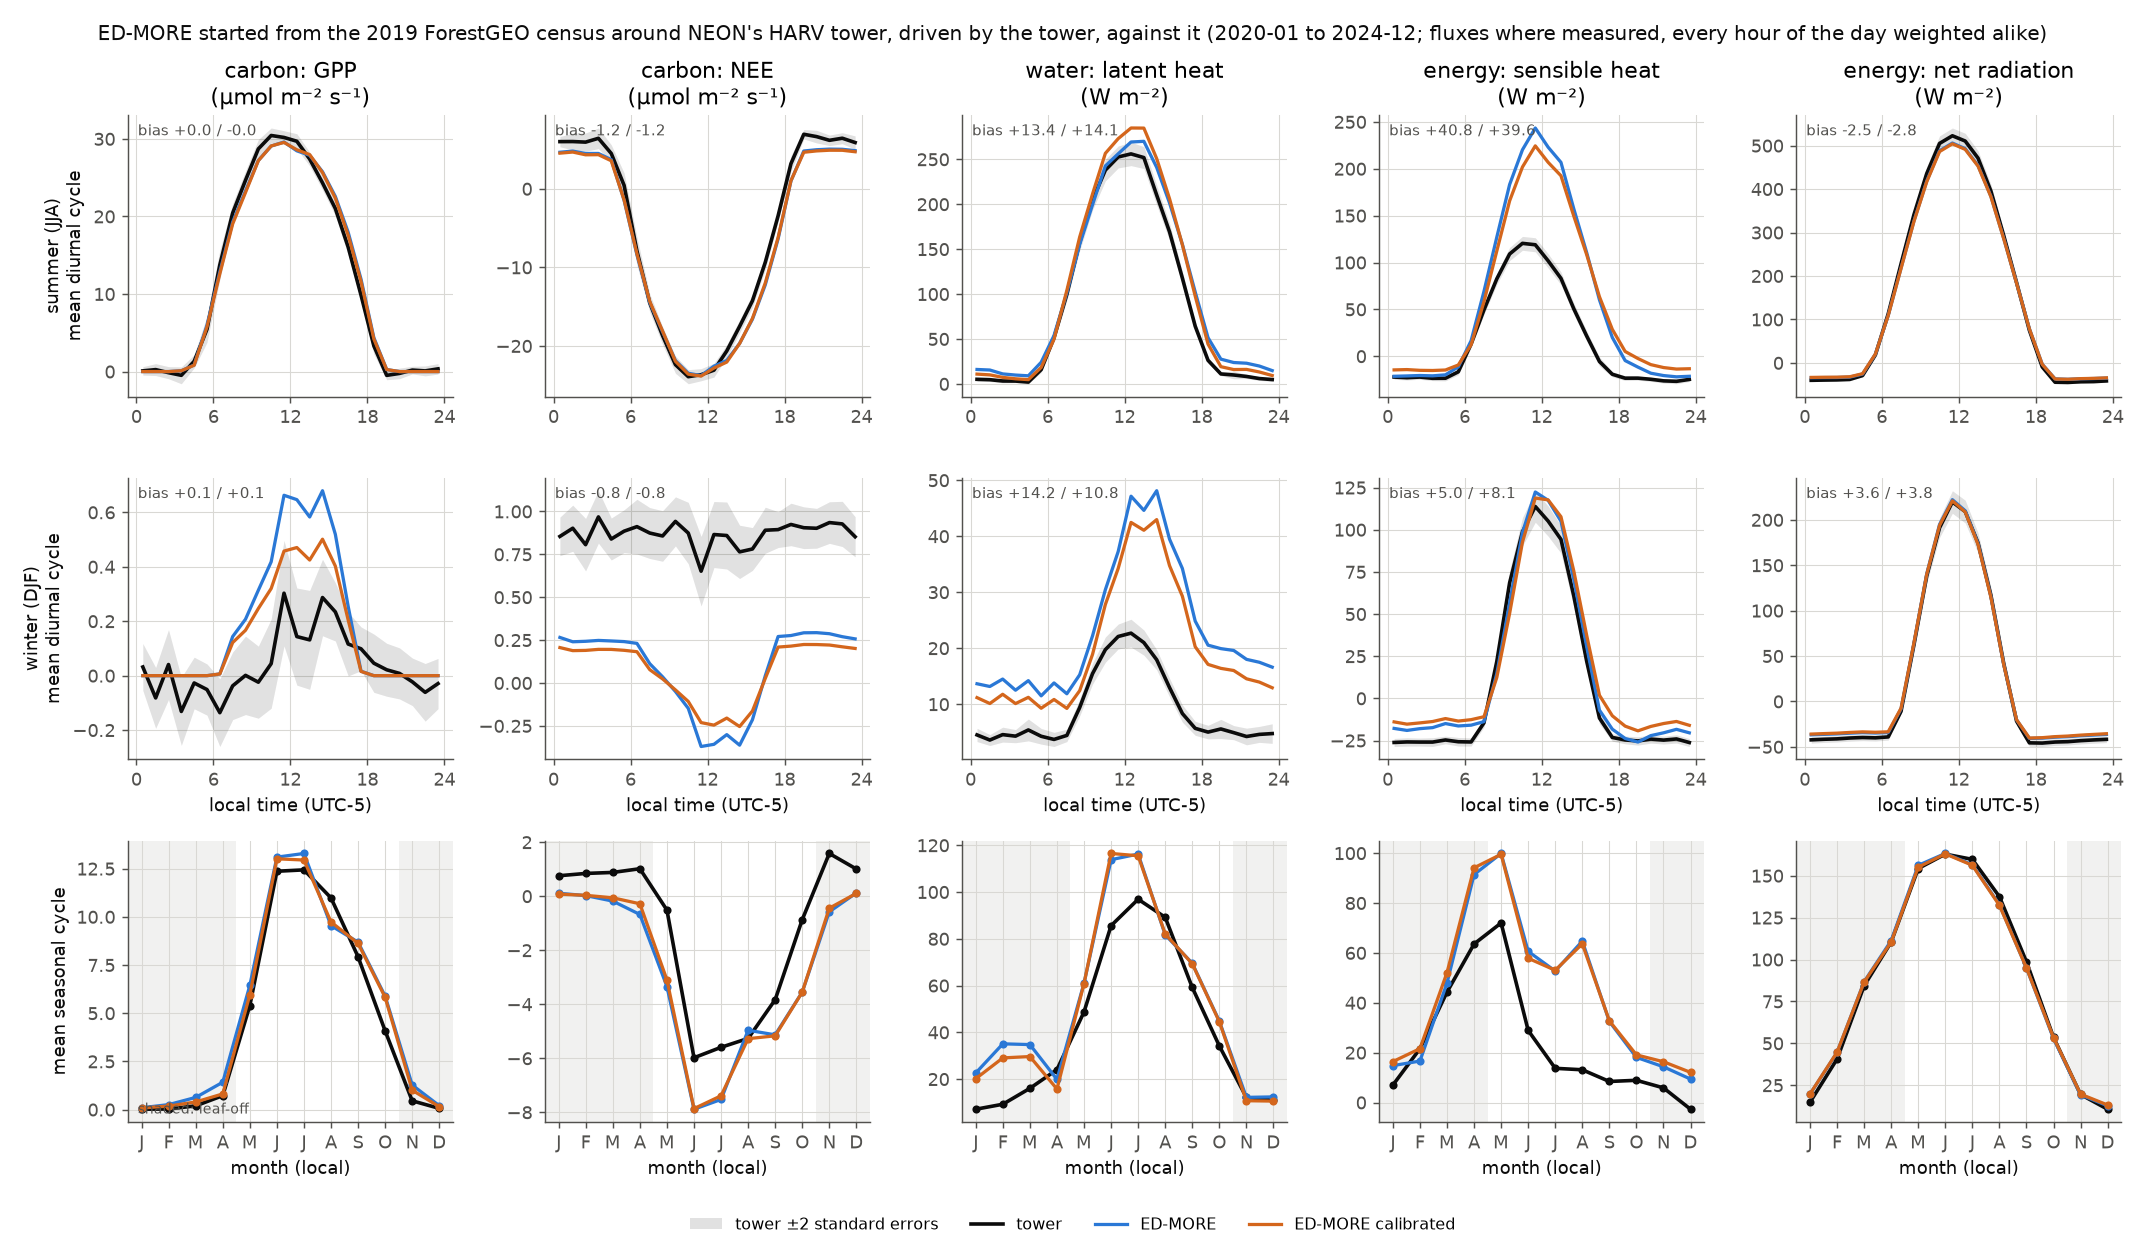
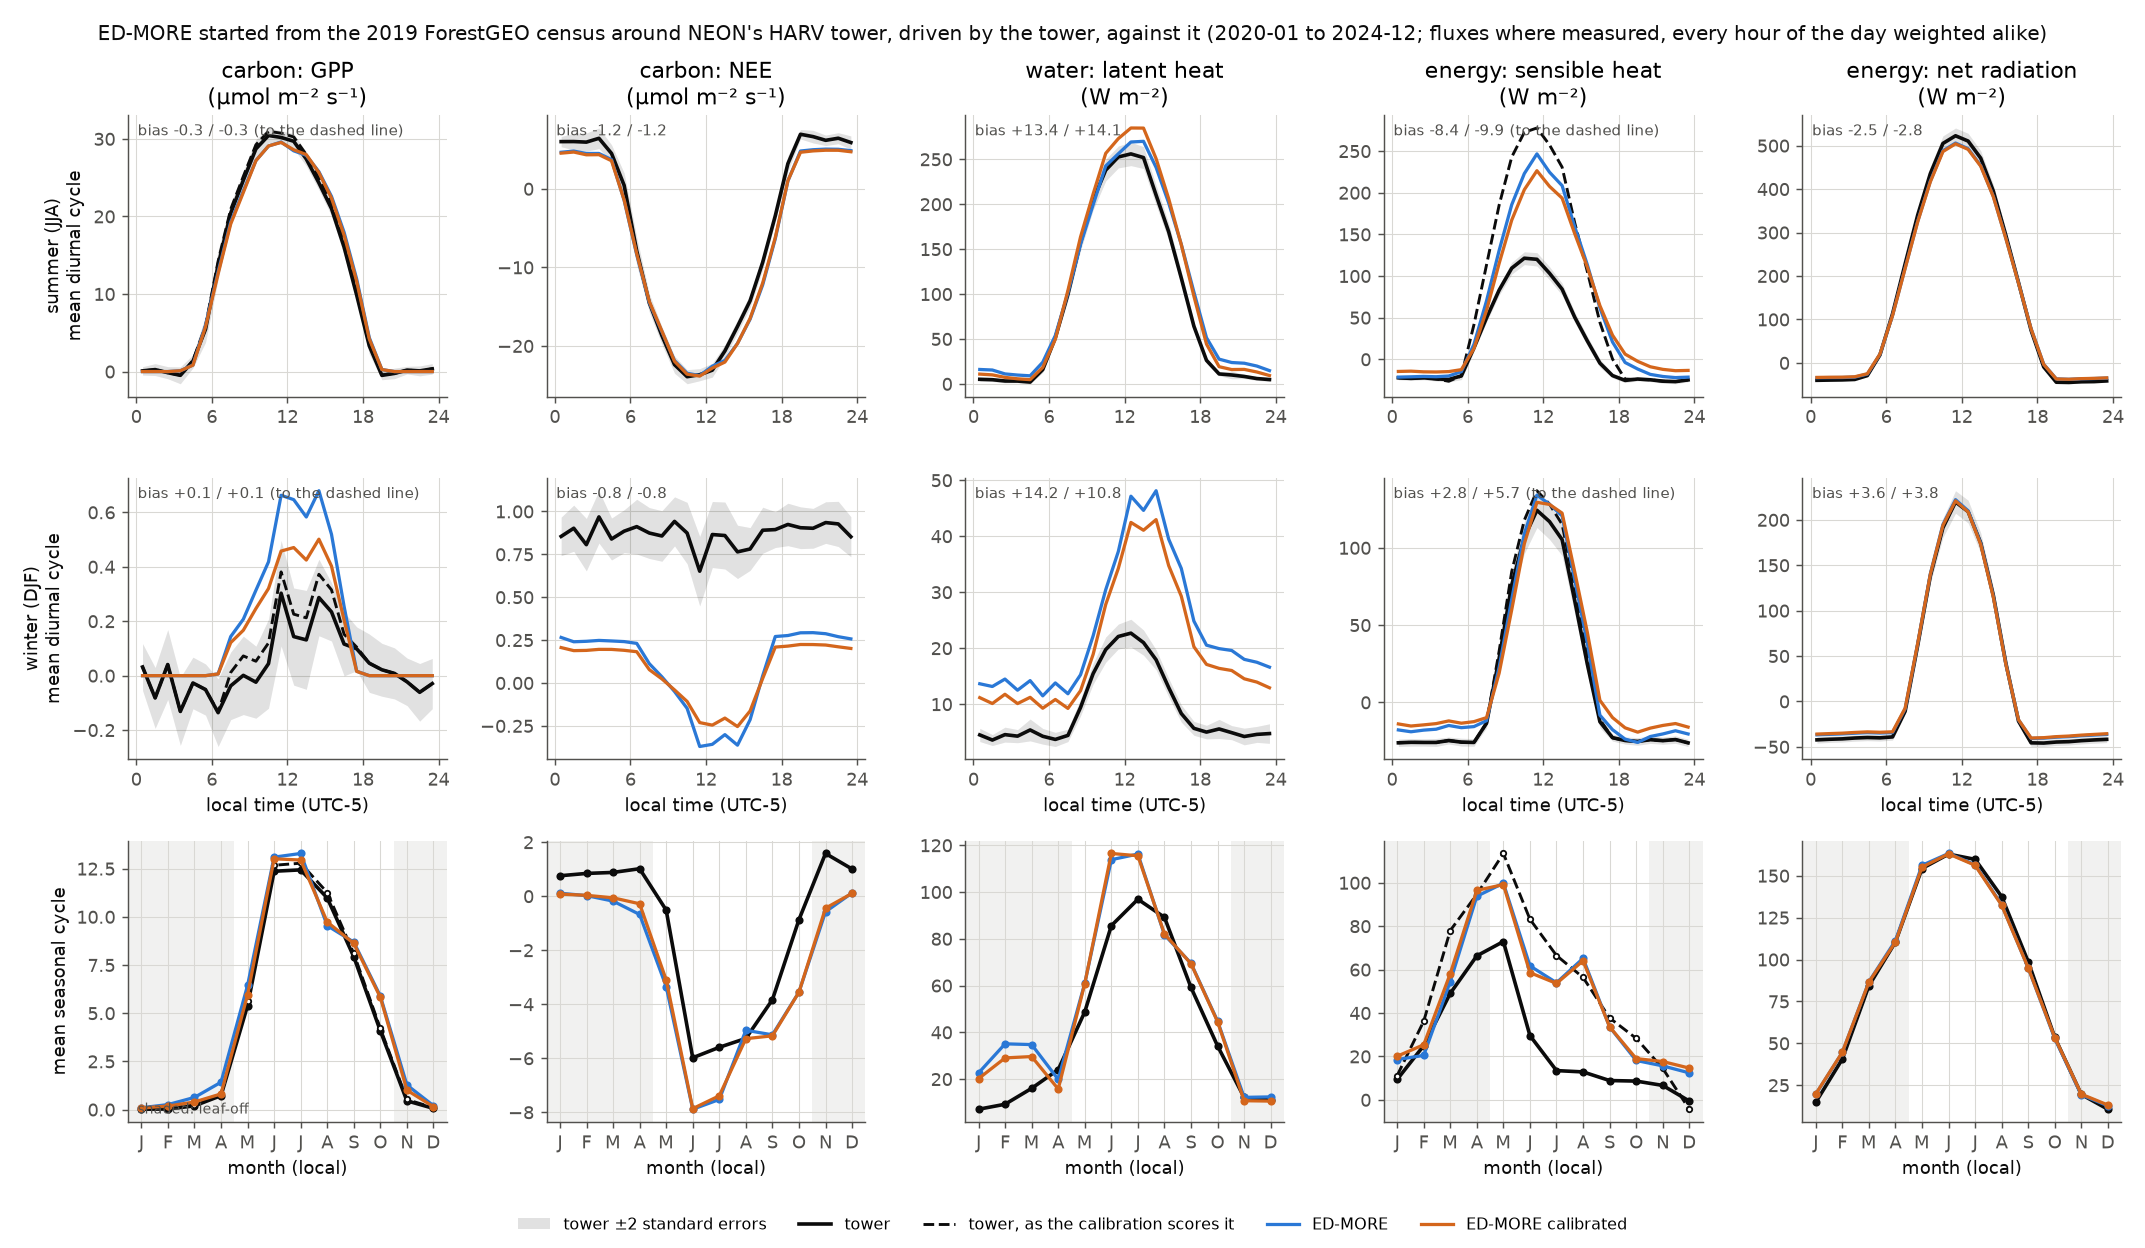
example04/harvard: the leaf area as its mean seasonal cycle; the tower as the calibration scores it
- plot_lai.py draws the mean seasonal cycle only (the statistics keep each year's dates).
- plot_evaluation.py draws, as BCI's does, the tower as the calibration scores it (dashed): GPP with
  the respiration divided by kappa (0.92), H with the energy-balance gap the attribution test gives it;
  each bias is against that line. Against it the model's summer H is 8 W m-2 low (it was +41 against
  the measured H) and its LE 13 W m-2 high.

diff --git a/examples/example04_column_biophysics/sites/harvard/plot_evaluation.py b/examples/example04_column_biophysics/sites/harvard/plot_evaluation.py
@@ -13,7 +13,10 @@ measured at least ten days of it, and each of its hours at least five times. NEE
 atmosphere in both. The band around the tower's diurnal cycle is its mean +-2 standard errors: an hour of
 the day averages only the hours the tower measured, few on calm nights (README, Results). The scoring
 starts in 2020: 2019 takes the canopy from the census, which starts in full leaf in January, to its own
-season.
+season. With the calibration's fit (--fit, calibration/fit.json by default), the tower is also drawn as the
+calibration scores it (dashed), as at BCI: GPP with the tower's respiration divided by the fitted kappa,
+and H and LE with the energy-closure gap shared as the fit shared it (at Harvard all of it to H). Each
+panel's bias is then against that line.
 
 Usage: python plot_evaluation.py [--model "output/eval-F-*.nc"] [--out evaluation.png] [--score-from 2020-01-01]
                                  [--stats output/evaluation_stats.json] [--calibrated "output/cal-F-*.nc"]
@@ -45,12 +48,16 @@ def main(argv=None):
     ap.add_argument("--stats", default=os.path.join(HERE, "output", "evaluation_stats.json"))
     ap.add_argument("--calibrated", default=None, help="the calibrated run's hourly files (a glob)")
     ap.add_argument("--score-from", default="2020-01-01", help="the first day scored (after the spin-up year)")
+    ap.add_argument("--fit", default=os.path.join(HERE, "calibration", "fit.json"),
+                    help="the calibration's fit.json, for the tower as the calibration scores it")
+    ap.add_argument("--config", default=os.path.join(HERE, "calibration.toml"), help="the calibration's settings")
     args = ap.parse_args(argv)
     site = ti.read_site(args.site)
     model = ev.read_model(args.model, site.utc_offset)
     model = model[model.index >= args.score_from]
-    tower, _, _ = ev.read_tower(site)
-    tower = tower.reindex(model.index)
+    fit = args.fit if os.path.exists(args.fit) else None
+    tower, target, kappa = ev.read_tower(site, fit, args.config)
+    tower, target = tower.reindex(model.index), target.reindex(model.index)
     cal = ev.read_model(args.calibrated, site.utc_offset).reindex(model.index) if args.calibrated else None
     runs = [("ED-MORE", model, ev.MODEL)] + ([("ED-MORE calibrated", cal, ev.CALIBRATED)] if cal is not None else [])
 
@@ -64,14 +71,20 @@ def main(argv=None):
         both = tower[tv].notna()
         for _, run, _ in runs:
             both &= run[mv].notna()
+        #----- scored against the calibration's target where it differs from the measured flux
+        scored = tv in target
+        if scored:
+            both &= target[tv].notna()
         t = tower.loc[both, tv]
+        tt = target.loc[both, tv] if scored else t                    # what the bias is against
         mo, ho = month[both], hour[both]
-        bins = {"tower": ev.cycle_bins(t, mo, ho)}
+        bins = {"tower": ev.cycle_bins(t, mo, ho), "scored": ev.cycle_bins(tt, mo, ho)}
         for label, run, _ in runs:
             bins[label] = ev.cycle_bins(run.loc[both, mv], mo, ho)
-            s = ev.cycle_stats(run.loc[both, mv], t, mo, ho)
+            s = ev.cycle_stats(run.loc[both, mv], tt, mo, ho)
+            s["tower_measured_mean"] = ev.annual_mean(bins["tower"])
             for season, months in SEASONS.items():
-                s[season] = ev.cycle_stats(run.loc[both, mv], t, mo, ho, months)
+                s[season] = ev.cycle_stats(run.loc[both, mv], tt, mo, ho, months)
             out[label][name] = s
         #----- the mean diurnal cycle in each season ----------------------------------------------#
         for row, (season, months) in enumerate(SEASONS.items()):
@@ -82,13 +95,17 @@ def main(argv=None):
             a.fill_between(td.index + 0.5, td - 2 * se, td + 2 * se, color=ev.TOWER, alpha=0.12, lw=0,
                            label="tower ±2 standard errors")
             a.plot(td.index + 0.5, td.values, color=ev.TOWER, lw=2, label="tower")
+            if scored:
+                tsd = ev.diurnal(bins["scored"], months)
+                a.plot(tsd.index + 0.5, tsd.values, color=ev.TOWER, lw=1.6, ls="--",
+                       label="tower, as the calibration scores it")
             notes = []
             for label, run, colour in runs:
                 md = ev.diurnal(bins[label], months)
                 a.plot(md.index + 0.5, md.values, color=colour, lw=1.8, label=label)
                 notes.append(f"{out[label][name][season]['bias']:+.1f}")
-            a.text(0.03, 0.97, "bias " + " / ".join(notes), transform=a.transAxes, va="top", color=ev.MUTED,
-                   fontsize=8.5)
+            a.text(0.03, 0.97, "bias " + " / ".join(notes) + (" (to the dashed line)" if scored else ""),
+                   transform=a.transAxes, va="top", color=ev.MUTED, fontsize=8.5)
             a.set(xticks=range(0, 25, 6))
             if row == 0:
                 a.set_title(f"{group}: {name}\n({units})")
@@ -101,6 +118,10 @@ def main(argv=None):
             a.axvspan(m - 0.5, m + 0.5, color=ev.GRID, alpha=0.35, lw=0)
         ts = ev.monthly(bins["tower"])
         a.plot(ts.index, ts.values, color=ev.TOWER, lw=2, marker="o", ms=3.5, label="tower")
+        if scored:
+            tss = ev.monthly(bins["scored"])
+            a.plot(tss.index, tss.values, color=ev.TOWER, lw=1.6, ls="--", marker="o", ms=3, mfc="white",
+                   label="tower, as the calibration scores it")
         for label, run, colour in runs:
             ms = ev.monthly(bins[label])
             a.plot(ms.index, ms.values, color=colour, lw=1.8, marker="o", ms=3.5, label=label)
@@ -117,7 +138,7 @@ def main(argv=None):
     fig.savefig(args.out, dpi=130)
     os.makedirs(os.path.dirname(os.path.abspath(args.stats)), exist_ok=True)
     with open(args.stats, "w") as fh:
-        json.dump(out, fh, indent=2)
+        json.dump({"kappa": kappa, **out}, fh, indent=2)
     print(f"figure: {args.out}")
     for label, table in out.items():
         print(f"{label:15s} {'hours':>6} {'tower':>8} {'model':>8} {'bias':>8} {'RMSE':>8} {'r hour':>7} "

diff --git a/examples/example04_column_biophysics/sites/harvard/plot_lai.py b/examples/example04_column_biophysics/sites/harvard/plot_lai.py
@@ -11,9 +11,10 @@
   subtracted). The instrument sees stems and branches too and does not correct for clumping, so its
   level is a lower bound on the leaves and its timing is the reference.
 
-The leaf-out and leaf-fall dates are where each year's broadleaf (model), deciduous (LAI-2000, between
-the surveys) or total (MODIS, a running median of five retrievals) leaf area crosses halfway between its
-leaf-off and its summer level.
+The figure is the mean seasonal cycle over the scored years. The statistics also hold each year's
+leaf-out and leaf-fall dates: where the broadleaf (model), deciduous (LAI-2000, between the surveys) or
+total (MODIS, a running median of five retrievals) leaf area crosses halfway between its leaf-off and
+its summer level.
 
 Usage: python plot_lai.py --data <harvard data> [--model output/cal] [--out lai.png]
 """
@@ -141,54 +142,22 @@ def main(argv=None):
     plt.rcParams.update({"axes.edgecolor": ev.MUTED, "axes.labelcolor": ev.INK, "xtick.color": ev.MUTED,
                          "ytick.color": ev.MUTED, "axes.grid": True, "grid.color": ev.GRID, "grid.linewidth": 0.6,
                          "axes.spines.top": False, "axes.spines.right": False, "axes.axisbelow": True})
-    fig = plt.figure(figsize=(14, 8.2))
-    ax = fig.add_subplot(2, 1, 1)
-    ax.stackplot(model.index, model["conifer"], model["broad"], colors=[CONIFER, BROAD], alpha=0.55, lw=0,
+    fig, ax = plt.subplots(figsize=(9, 5.2))
+    ax.stackplot(clim_c.index, clim_c.values, clim_b.values, colors=[CONIFER, BROAD], alpha=0.55, lw=0,
                  labels=["ED-MORE, conifers (PFT 2)", "ED-MORE, broadleaves (PFT 1)"])
-    ax.plot(total.index, total, color=ev.MODEL, lw=1.2, label="ED-MORE, total")
-    ax.plot(modis.index, modis, ls="none", marker="o", ms=2.6, color=ev.MUTED, label="MODIS MCD15A3H (3 × 3 median)")
-    ax.plot(survey.index, survey["all_mean"], ls="none", marker="s", ms=4.5, color=ev.INK,
+    ax.plot(clim_b.index, clim_b.values + clim_c.values, color=ev.MODEL, lw=1.6, label="ED-MORE, total")
+    ax.plot(clim_modis.index.dayofyear, clim_modis.values, ls="none", marker="o", ms=2.6, color=ev.MUTED,
+            label="MODIS MCD15A3H (3 × 3 median)")
+    ax.plot(clim_survey.index.dayofyear, clim_survey["all_mean"], ls="none", marker="s", ms=4, color=ev.INK,
             label="LAI-2000, whole canopy (HF069)")
-    ax.plot(survey.index, survey["decid_mean"], ls="none", marker="s", ms=4.5, mfc="white", mec=ev.INK,
-            label="LAI-2000, deciduous part")
-    ax.set(ylabel="leaf area index [m² m⁻²]", xlim=span, ylim=(0, None),
-           title="every day; the first year starts from the census in full leaf")
-    ax.legend(frameon=False, fontsize=8.5, ncol=3, loc="upper right")
-
-    ax = fig.add_subplot(2, 2, 3)
-    ax.stackplot(clim_c.index, clim_c.values, clim_b.values, colors=[CONIFER, BROAD], alpha=0.55, lw=0)
-    ax.plot(clim_b.index, clim_b.values + clim_c.values, color=ev.MODEL, lw=1.6)
-    ax.plot(clim_modis.index.dayofyear, clim_modis.values, ls="none", marker="o", ms=2.6, color=ev.MUTED)
-    ax.plot(clim_survey.index.dayofyear, clim_survey["all_mean"], ls="none", marker="s", ms=4, color=ev.INK)
     ax.plot(clim_survey.index.dayofyear, clim_survey["decid_mean"], ls="none", marker="s", ms=4, mfc="white",
-            mec=ev.INK)
-    box = {"boxstyle": "round,pad=0.2", "fc": "white", "ec": "none", "alpha": 0.8}
-    ax.text(30, float(clim_c.mean()) * 0.5, "conifers", color=ev.INK, fontsize=9, ha="left", va="center", bbox=box)
-    ax.text(200, float(clim_c.mean()) + 0.5 * float(clim_b[180:240].mean()), "broadleaves", color=ev.INK,
-            fontsize=9, ha="center", va="center", bbox=box)
+            mec=ev.INK, label="LAI-2000, deciduous part")
     ticks = pd.date_range("2021-01-01", periods=12, freq="MS")
     ax.set(xlim=(1, 366), xticks=ticks.dayofyear, xticklabels=list(ev.MONTHS), ylim=(0, None),
-           xlabel="month", ylabel="leaf area index [m² m⁻²]", title=f"the seasonal cycle, {later[0]}-{later[-1]}")
-
-    ax = fig.add_subplot(2, 2, 4)
-    sources = [("halfway_model_broad", -0.18, {"marker": "o", "ms": 7, "color": ev.MODEL}, "ED-MORE, broadleaves"),
-               ("halfway_lai2000_deciduous", 0.0, {"marker": "s", "ms": 6, "mfc": "white", "mec": ev.INK},
-                "LAI-2000, deciduous part"),
-               ("halfway_modis", 0.18, {"marker": "o", "ms": 4, "color": ev.MUTED}, "MODIS (running median)")]
-    for name, dy, style, label in sources:
-        for i, y in enumerate(later):
-            for key in ("leaf_out", "leaf_fall"):
-                day = stats[name].get(y, {}).get(key)
-                if day:
-                    ax.plot(pd.Timestamp(day).dayofyear, i + dy, ls="none", **style)
-        ax.plot([], [], ls="none", label=label, **style)
-    ax.set(yticks=range(len(later)), yticklabels=[str(y) for y in later], xlim=(110, 330),
-           xticks=ticks[4:11].dayofyear, xticklabels=list(ev.MONTHS[4:11]), xlabel="day of the year",
-           title="leaf-out and leaf-fall: halfway between leaf-off and summer")
-    ax.invert_yaxis()
-    ax.legend(frameon=False, fontsize=9, loc="center")
-    fig.suptitle("Harvard Forest: ED-MORE's leaf area by PFT against MODIS and the LAI-2000 surveys",
-                 color=ev.INK, fontsize=11)
+           xlabel="month", ylabel="leaf area index [m² m⁻²]")
+    ax.legend(frameon=False, fontsize=8.5, loc="upper left")
+    ax.set_title(f"Harvard Forest: leaf area by PFT, the mean seasonal cycle {later[0]}-{later[-1]}",
+                 color=ev.INK, fontsize=11, loc="left")
     fig.tight_layout()
     fig.savefig(args.out, dpi=130)
     os.makedirs(os.path.dirname(os.path.abspath(args.stats)), exist_ok=True)

diff --git a/examples/example04_column_biophysics/sites/harvard/README.md b/examples/example04_column_biophysics/sites/harvard/README.md
@@ -63,19 +63,24 @@ hours of the day averaged over the years, so that every hour weighs the same: th
 GPP for about a fifth of the hours, few of them calm nights, and a plain mean over them would be mostly
 a mean of days.
 
-| | tower | ED-MORE | bias in June–August | bias in December–February |
-|---|---|---|---|---|
-| GPP [µmol m⁻² s⁻¹] | 4.56 | 5.07 | +0.05 | +0.15 |
-| NEE [µmol m⁻² s⁻¹] | −1.33 | −2.80 | −1.18 | −0.78 |
-| LE [W m⁻²] | 41.1 | 52.0 | +13.4 | +14.2 |
-| H [W m⁻²] | 23.7 | 43.6 | +40.8 | +5.0 |
-| net radiation [W m⁻²] | 87.3 | 87.6 | −2.5 | +3.6 |
+The dashed lines are the tower as the calibration scores it, as at BCI: GPP with the tower's respiration
+divided by the fitted κ (0.92), and H with the energy-balance gap, which the attribution test gives to H
+(below). Each bias is against the dashed line where there is one.
 
-- **Summer:** GPP's diurnal cycle and its June–August level match (bias +0.05 µmol m⁻² s⁻¹), and net
+| | tower | tower, as the calibration scores it | ED-MORE | bias in June–August | bias in December–February |
+|---|---|---|---|---|---|
+| GPP [µmol m⁻² s⁻¹] | 4.56 | 4.70 | 5.07 | −0.26 | +0.12 |
+| NEE [µmol m⁻² s⁻¹] | −1.33 | | −2.80 | −1.18 | −0.78 |
+| LE [W m⁻²] | 41.1 | | 52.0 | +13.4 | +14.2 |
+| H [W m⁻²] | 25.2 | 51.3 | 45.7 | −8.4 | +2.8 |
+| net radiation [W m⁻²] | 87.3 | | 87.6 | −2.5 | +3.6 |
+
+- **Summer:** GPP's diurnal cycle and its June–August level match (bias −0.26 µmol m⁻² s⁻¹), and net
   radiation is within 2.5 W m⁻². The model's sink is the larger (NEE −1.18 µmol m⁻² s⁻¹ in June–August),
   mostly at night. The tower closes its energy balance to 0.76, and the calibration's attribution test
-  gives the gap to H (H/Rnet rises 77 % from calm to turbulent hours, LE/Rnet does not), as at BCI: most
-  of the model's higher summer H is that gap.
+  gives the gap to H (H/Rnet rises 77 % from calm to turbulent hours, LE/Rnet does not), as at BCI.
+  Against the tower with that gap in H, the model's summer H is 8 W m⁻² low and its LE 13 W m⁻² high:
+  the model splits the energy too much toward water.
 - **Winter and spring: the conifers.** While the broadleaves are bare, the tower sees the conifers alone,
   at two thirds of their needles from October to June (Phenology) and with every PFT's low-temperature
   limit. In the hours the tower measured with incoming shortwave above 300 W m⁻²:
@@ -106,9 +111,9 @@ a mean of days.
 
 ## Leaf area
 
-![The model's leaf area by PFT against MODIS and the LAI-2000 surveys, 2019-2024](lai.png)
+![The model's leaf area by PFT against MODIS and the LAI-2000 surveys: the mean seasonal cycle, 2020-2024](lai.png)
 
-[`plot_lai.py`](plot_lai.py) sets the calibrated run's leaf area by PFT against MODIS (the median of the
+[`plot_lai.py`](plot_lai.py) sets the calibrated run's mean seasonal leaf area by PFT against MODIS (the median of the
 3 × 3 500 m pixels around the tower, good retrievals only) and the LAI-2000 surveys around the EMS tower,
 which read the whole canopy and its deciduous part (the leaf-off reading subtracted).
 - **The summer canopy:** LAI 5.7 in July–August (broadleaves 3.9, conifers 1.7), against 4.6 from the
@@ -174,7 +179,7 @@ more than 10 % worse. The energy-balance gap is the largest uncertainty: sharing
 instead moves `stomatal_g1` to 10.1 (the conifers' to 4.5), and the tower's daytime partitioning moves
 `vcmax25` to 60 and the conifers' to 16.7. The fit took 444 trials, 15 minutes on one 40-core node.
 
-Over 2020–2024 the calibrated run lowers GPP to 4.89 µmol m⁻² s⁻¹ (LE 50.4, H 44.9 W m⁻²) and the hourly
+Over 2020–2024 the calibrated run lowers GPP to 4.89 µmol m⁻² s⁻¹ and LE to 50.4 W m⁻², and the hourly
 errors (RMSE: GPP 3.74 → 3.40, LE 49.1 → 48.2, H 59.3 → 55.3). The conifers' spring comes closest to the
 tower: in the sunny hours of April their GPP is 1.97 µmol m⁻² s⁻¹ against the tower's 1.60 (the default
 3.70), and March–May's NEE −2.2 against −0.18 (the default −2.6). The calibrated configs, the fit and

diff --git a/examples/example04_column_biophysics/README.md b/examples/example04_column_biophysics/README.md
@@ -36,8 +36,8 @@ is u\*-filtered), and a plain mean over its measured hours would be mostly a mea
 |---|---|---|---|---|
 | BCI, default | 7.64 / 10.78 | 76.7 / 82.9 | 35.1 / 73.6 | 136.0 / 139.7 |
 | BCI, calibrated | 7.64 / 8.99 | 76.7 / 68.5 | 35.1 / 84.8 | 136.0 / 139.1 |
-| Harvard, default | 4.56 / 5.07 | 41.1 / 52.0 | 23.7 / 43.6 | 87.3 / 87.6 |
-| Harvard, calibrated | 4.56 / 4.89 | 41.1 / 50.4 | 23.7 / 44.9 | 87.3 / 87.5 |
+| Harvard, default | 4.56 / 5.07 | 41.1 / 52.0 | 25.2 / 45.7 | 87.3 / 87.6 |
+| Harvard, calibrated | 4.56 / 4.89 | 41.1 / 50.4 | 25.2 / 46.7 | 87.3 / 87.5 |
 
 Both towers close their energy balance to about 0.75 of the net radiation, and at both the calibration's
 attribution test gives the gap to H: most of the model's higher H is the tower's missing H. Each site's
